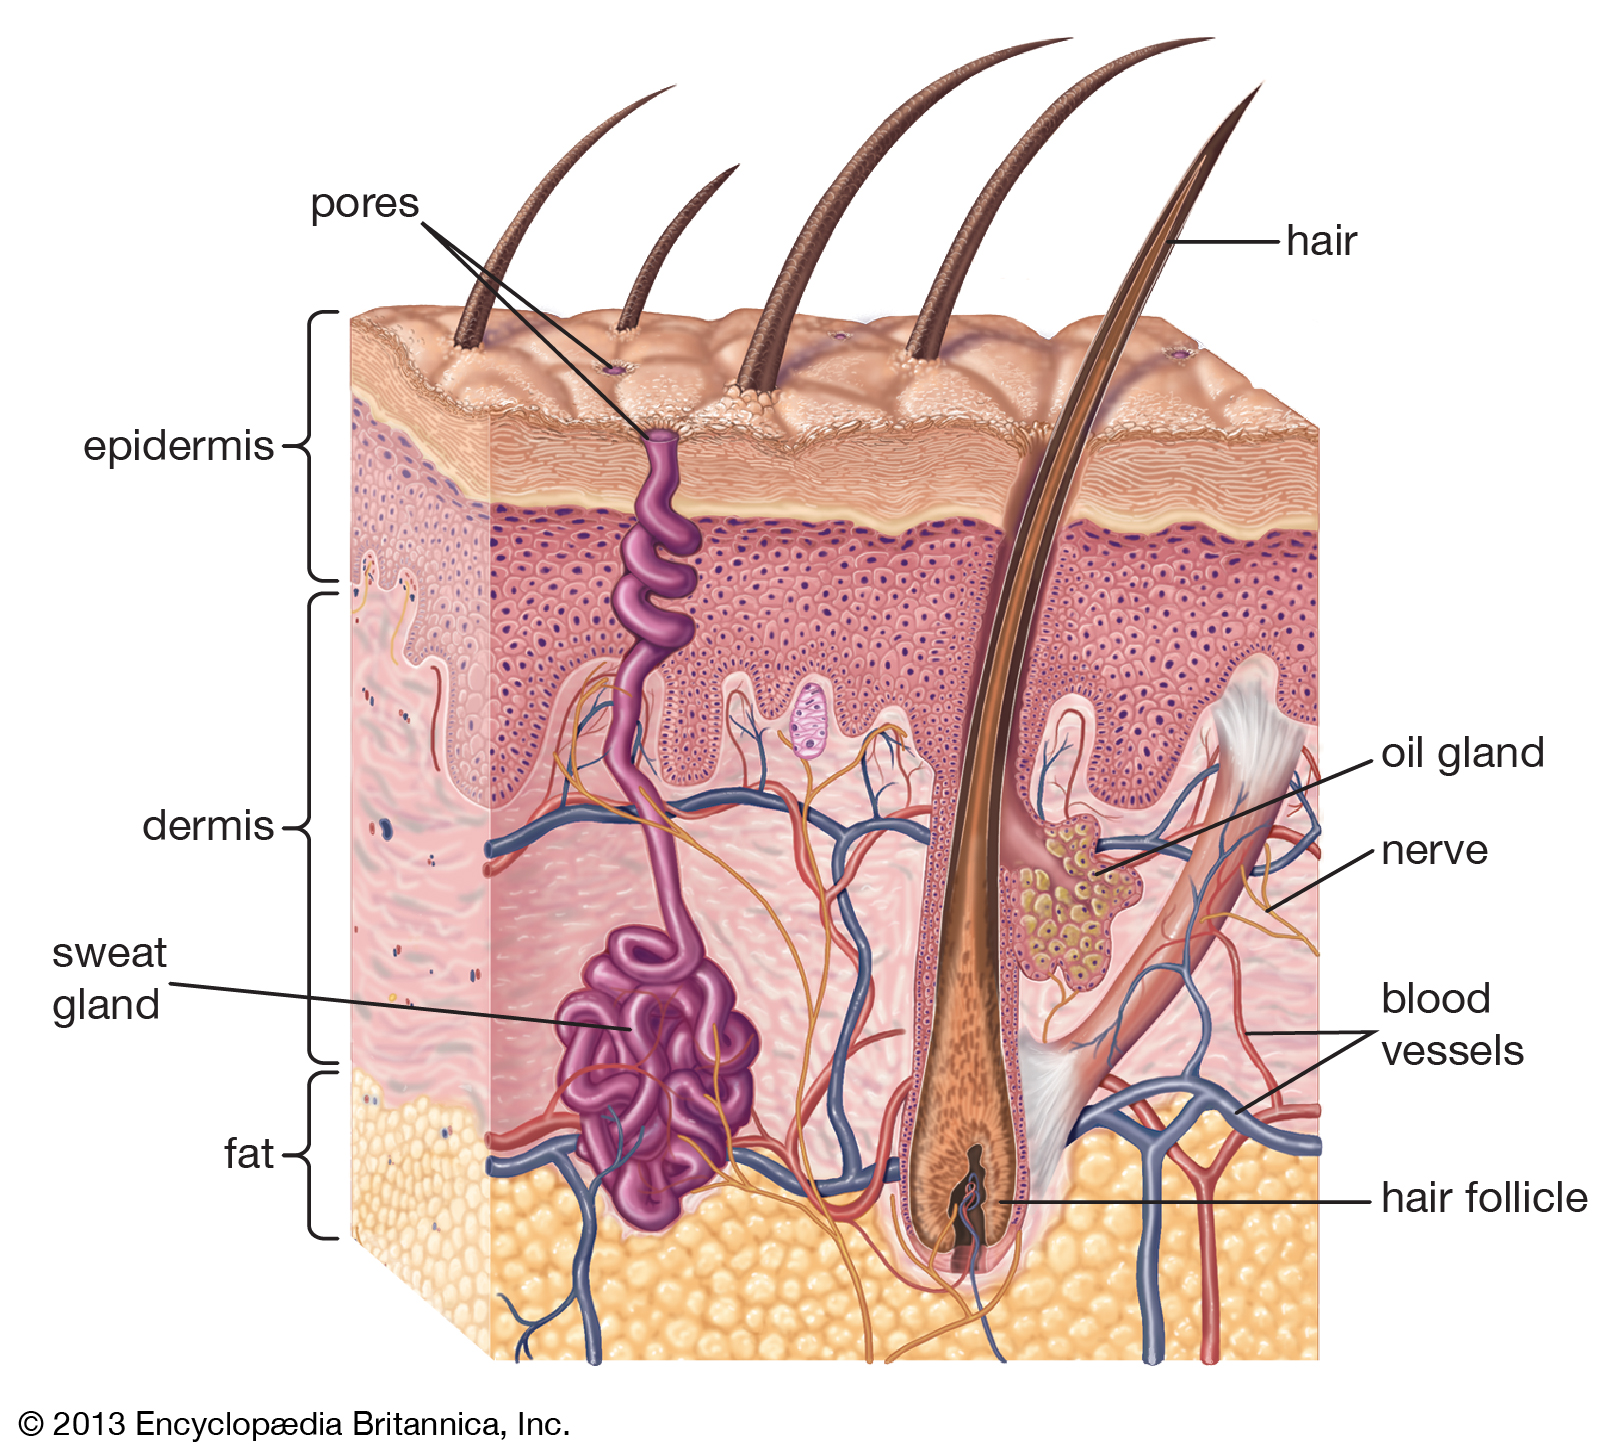
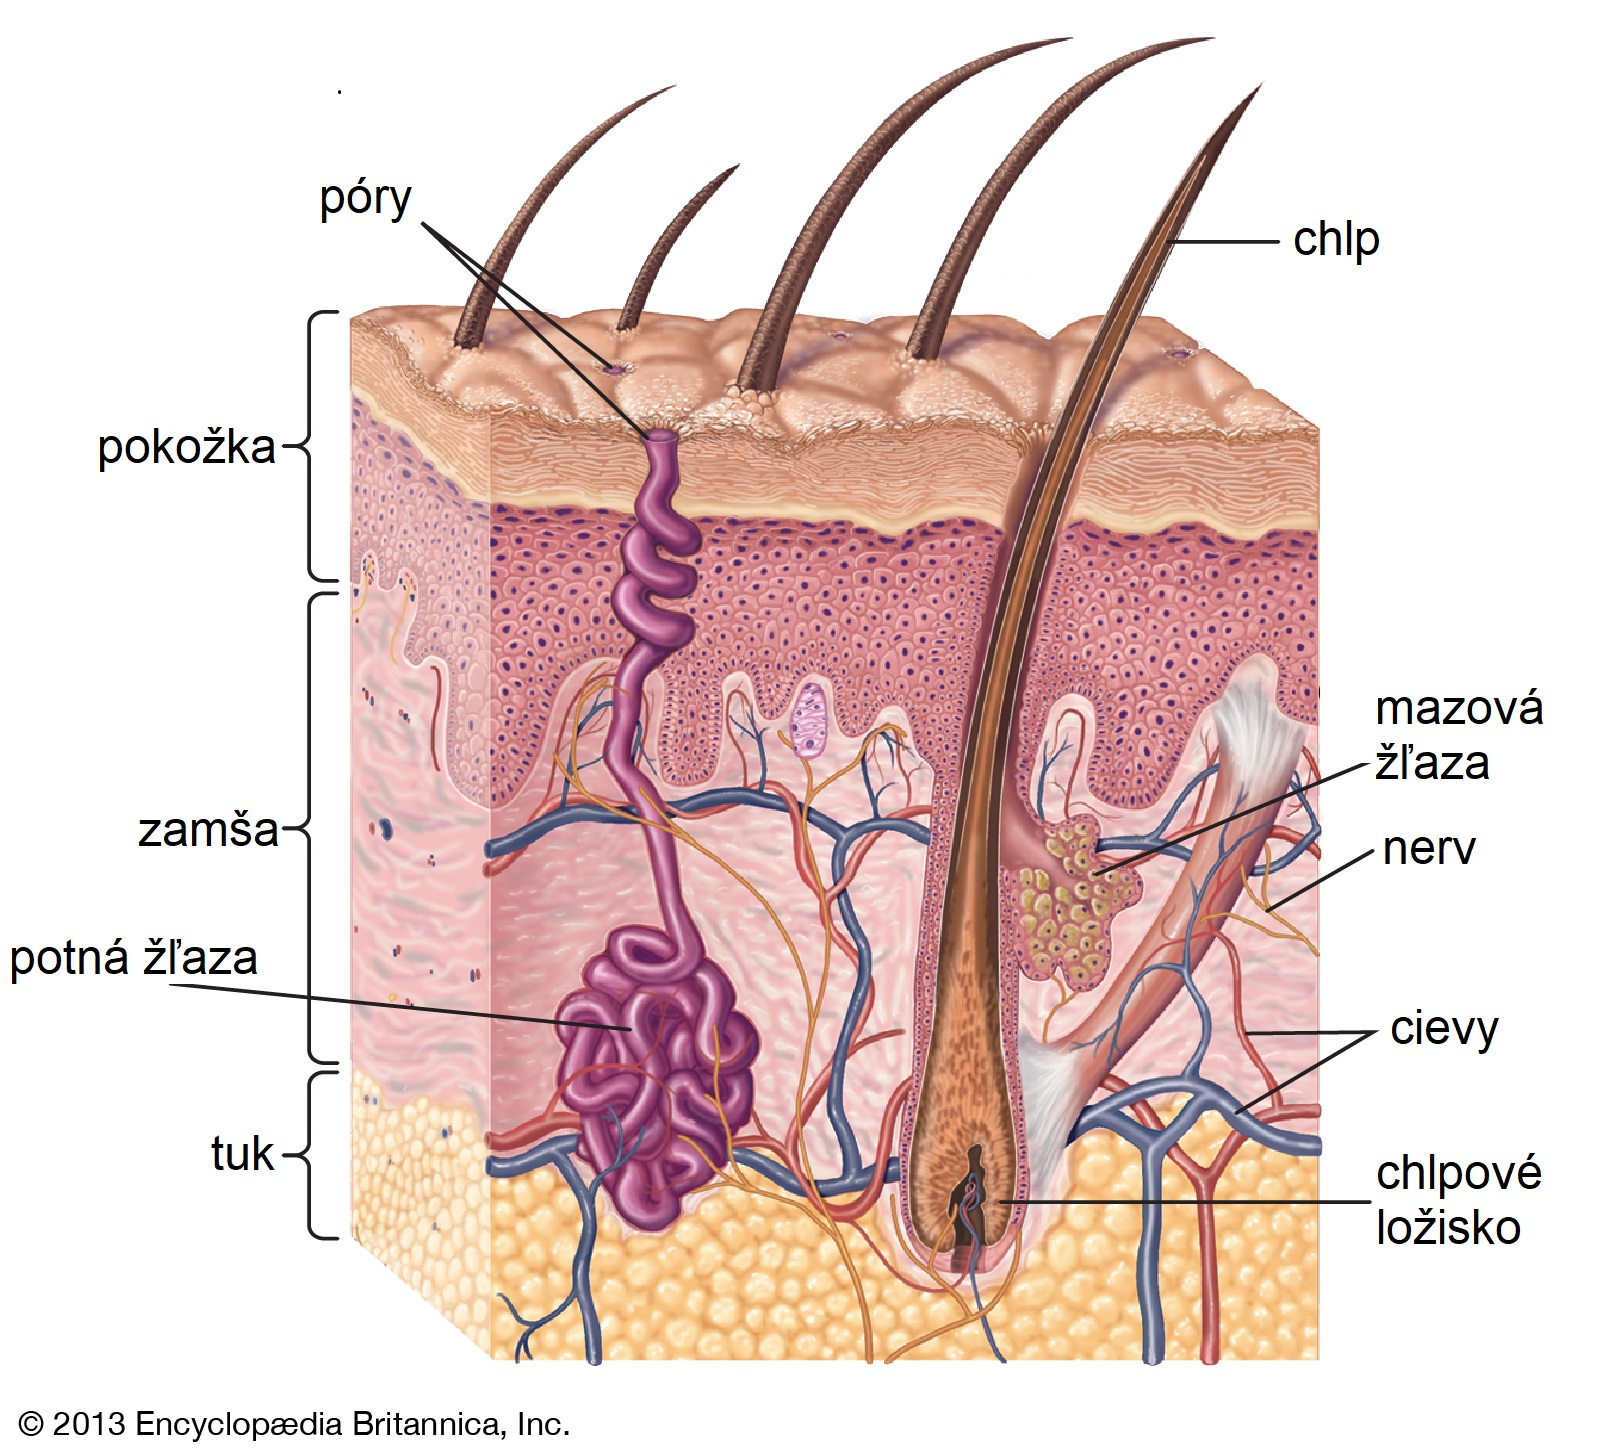
prelozenie obrazku

diff --git a/chapters/teoreticky-rozbor.tex b/chapters/teoreticky-rozbor.tex
@@ -26,7 +26,7 @@ Kôža je zložená z 3 hlavných časti, a to z pokožky (epidermis), zamši (d
 \begin{figure}[h]
   \centering
   \includegraphics[scale=0.19]{fig/koza.jpg}
-  \caption{Zloženie ľudskej kože \cite{Ebling2016}}
+  \caption{Zloženie ľudskej kože. Modifikované zo zdroja \cite{Ebling2016}}
   \label{fig:koza}
 \end{figure}
 
